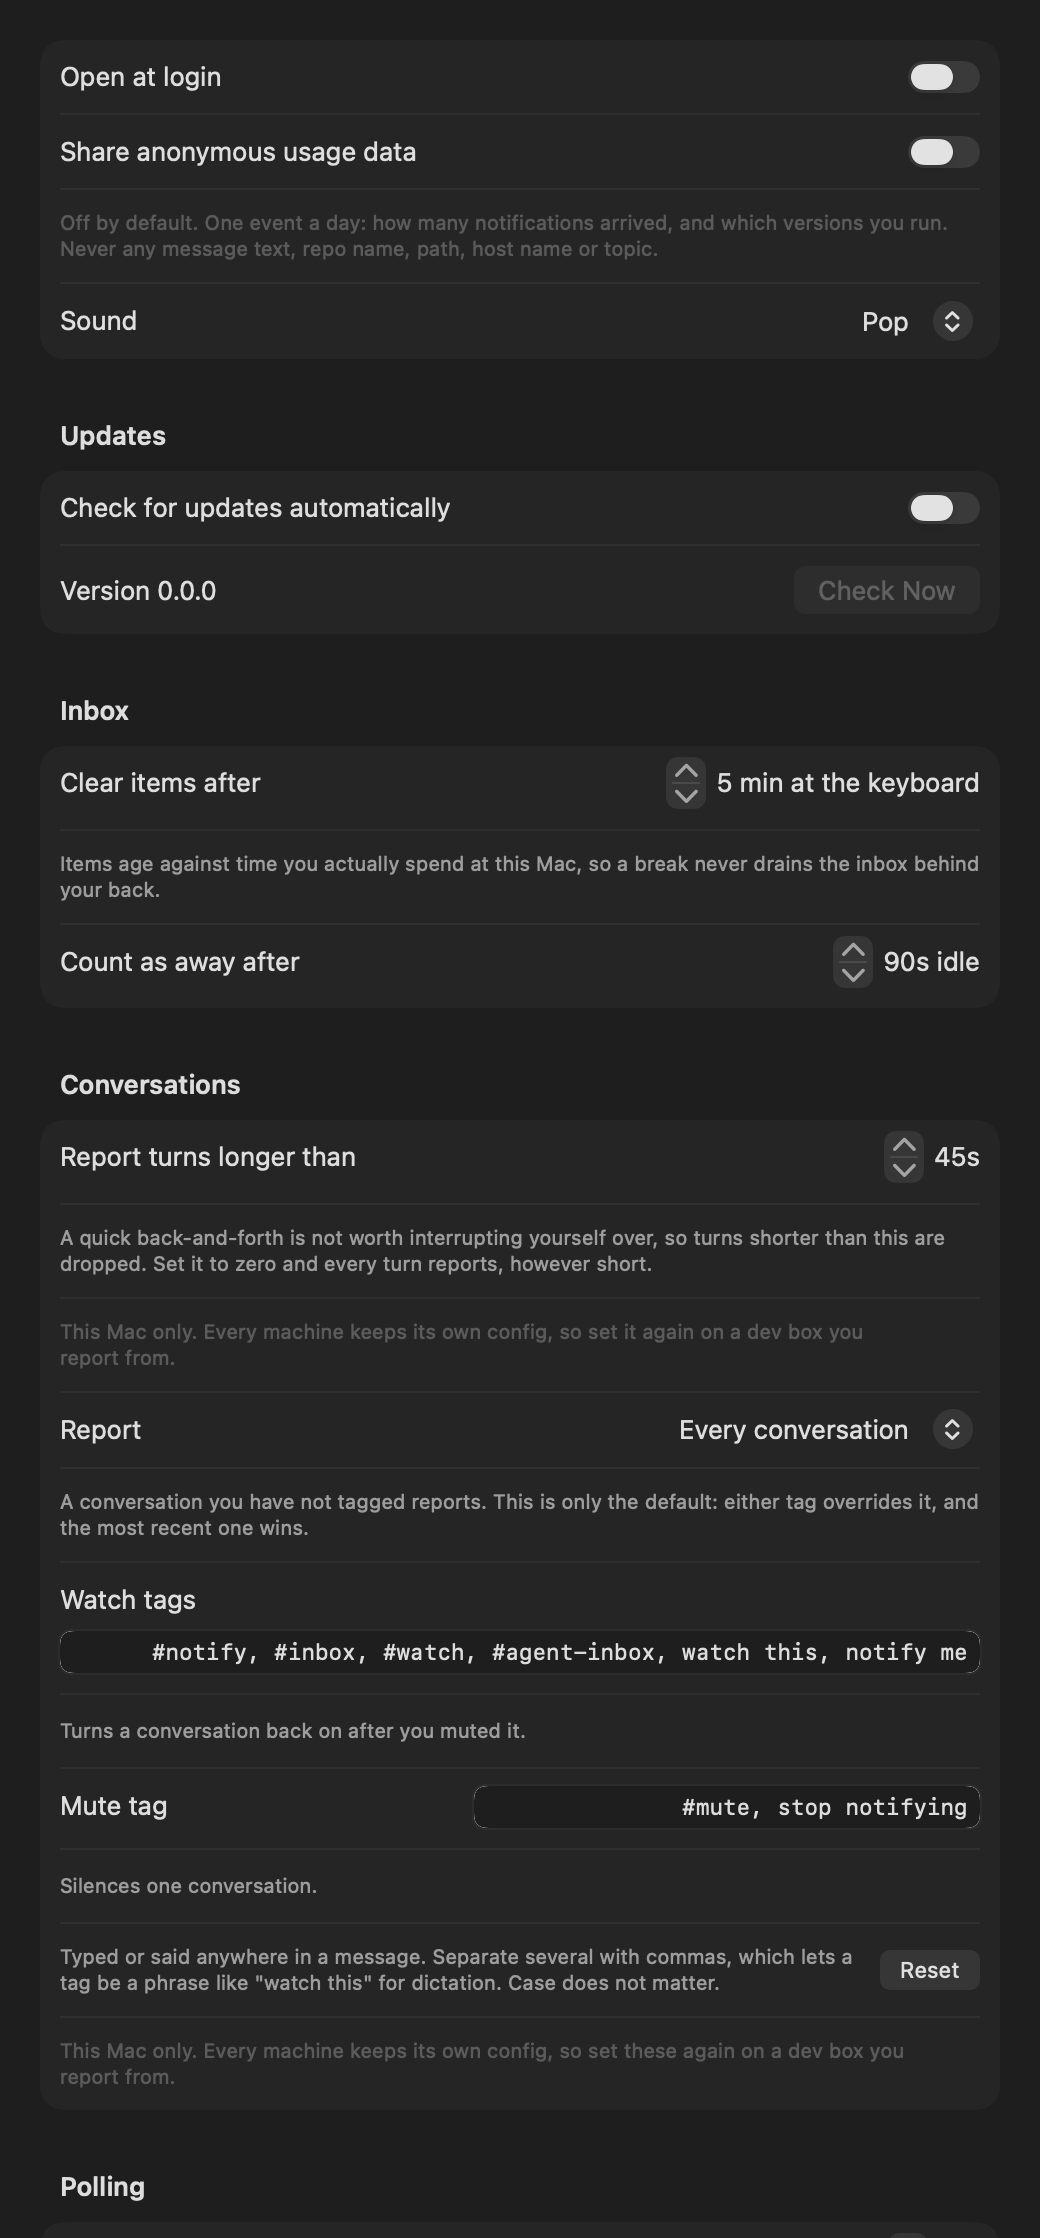
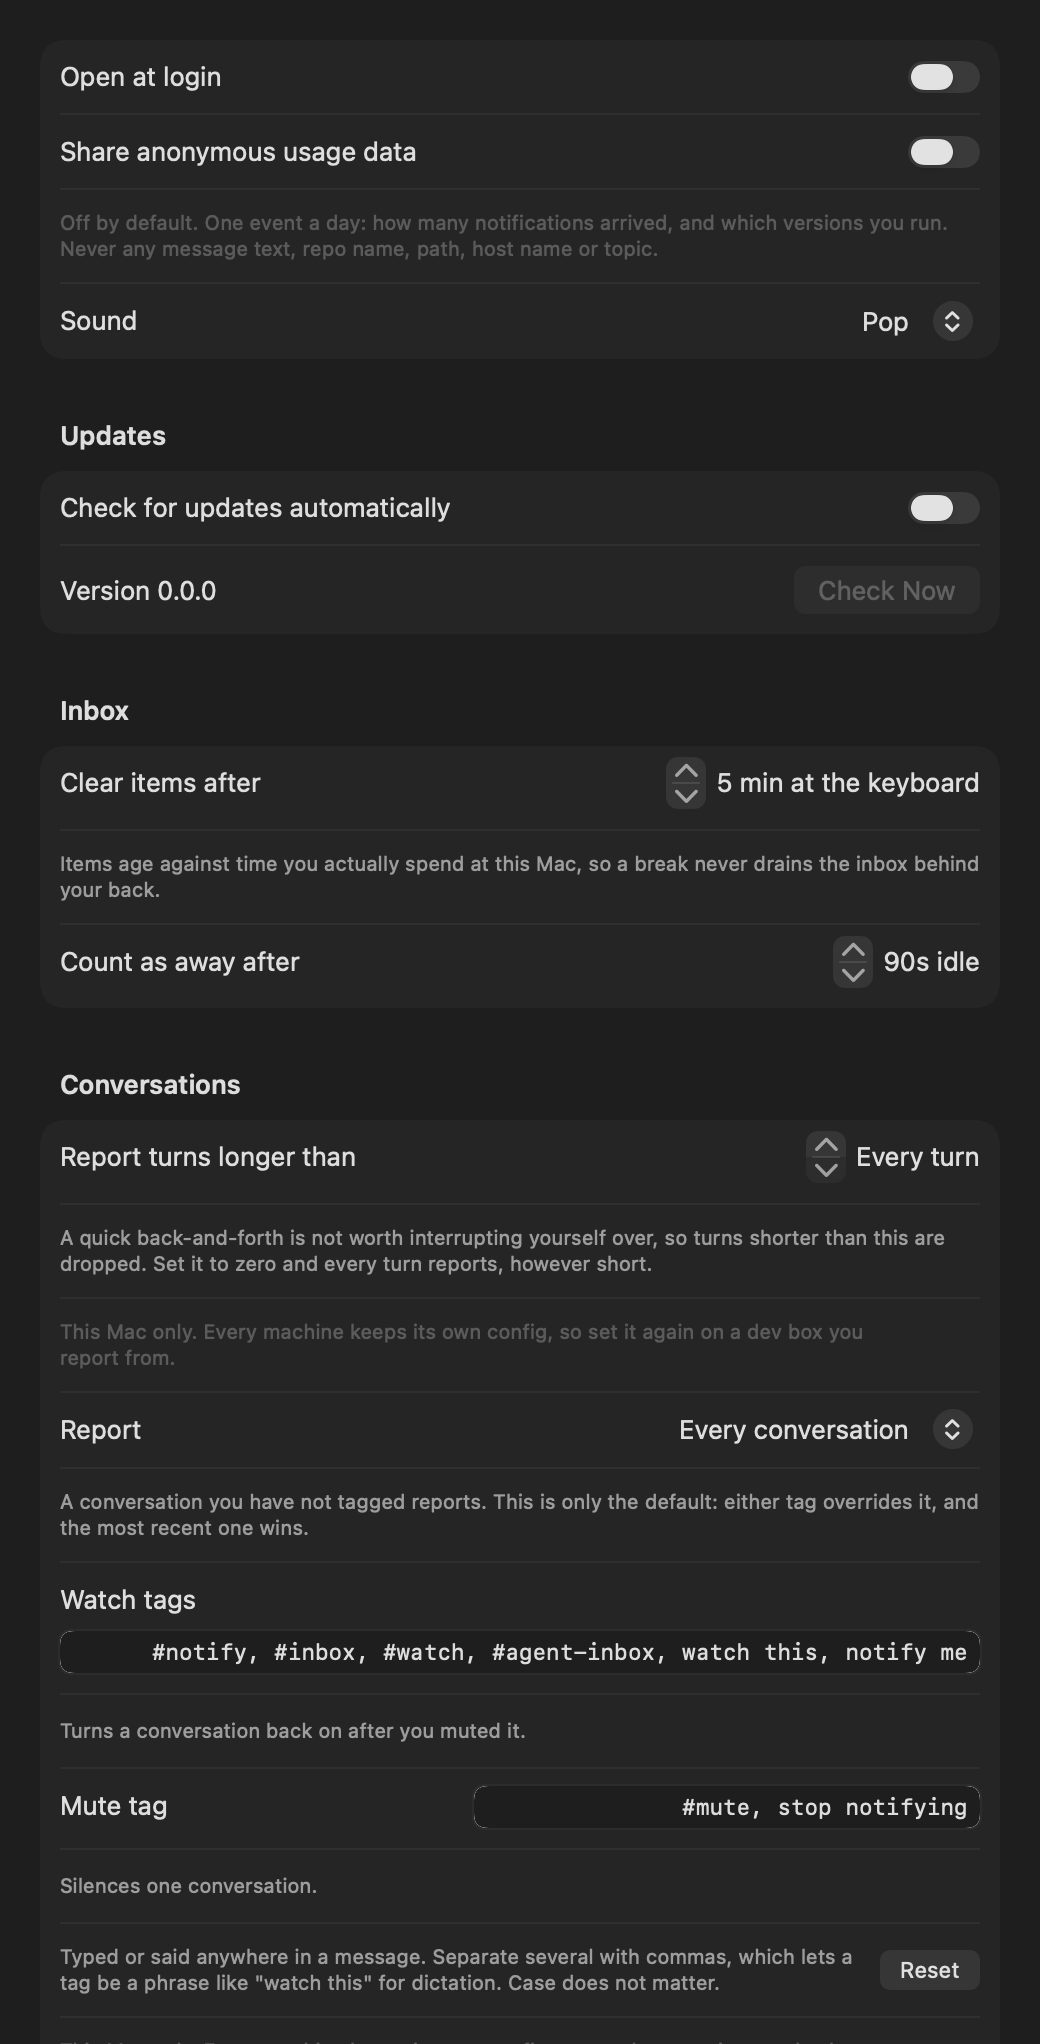
Offer to hide short turns on the row that made you wonder
Every turn reports by default so a new install can see that it works. The
cost is that a two-second reply to "hello" now produces a row, and the person
looking at it has no way to know a floor exists, let alone where.

So a finished turn under fifteen seconds says so on its own row, with a link
that flips the popover to Settings. Discovered on exactly the row that raised
the question, one click, no window to hunt for.

Unknown durations are not short. An older sender that sends no elapsed time
must not be nagged on every row, and a hand is a block, not a turn, whatever
its timing says.

diff --git a/mac/Tests/AgentInboxTests/MessageParserTests.swift b/mac/Tests/AgentInboxTests/MessageParserTests.swift
@@ -370,3 +370,35 @@ final class ItemThreadTests: XCTestCase {
         XCTAssertNil(item(summary: "s", ask: "a", closing: "").closingWords)
     }
 }
+
+/// Every turn reports by default so a new install can see that it works. The
+/// row for a very short turn is where the person then learns the floor exists,
+/// so the offer has to appear on exactly those rows and no others.
+final class ShortTurnTests: XCTestCase {
+    private func item(kind: ItemKind, elapsed: Int?) -> InboxItem {
+        InboxItem(
+            id: "1", kind: kind, repo: "r", host: "h", duration: nil, elapsed: elapsed,
+            summary: nil, ask: nil, detail: nil, closing: nil, waitingOn: nil,
+            sessionID: nil, cwd: nil, receivedAt: Date(), presenceAtArrival: 0)
+    }
+
+    func testAQuickFinishedTurnGetsTheOffer() {
+        XCTAssertTrue(item(kind: .finished, elapsed: 3).isShortTurn)
+        XCTAssertTrue(item(kind: .finished, elapsed: InboxItem.shortTurnSeconds - 1).isShortTurn)
+    }
+
+    func testATurnAtTheThresholdDoesNot() {
+        XCTAssertFalse(item(kind: .finished, elapsed: InboxItem.shortTurnSeconds).isShortTurn)
+        XCTAssertFalse(item(kind: .finished, elapsed: 999).isShortTurn)
+    }
+
+    /// An older sender sends no elapsed time. Unknown is not short.
+    func testAnUnknownDurationIsNeverCalledShort() {
+        XCTAssertFalse(item(kind: .finished, elapsed: nil).isShortTurn)
+    }
+
+    /// The hand is a block, not a turn; its duration means nothing here.
+    func testANeedsYouItemIsNeverCalledShort() {
+        XCTAssertFalse(item(kind: .needsYou, elapsed: 2).isShortTurn)
+    }
+}

diff --git a/mac/Tests/AgentInboxTests/ScreenshotTests.swift b/mac/Tests/AgentInboxTests/ScreenshotTests.swift
@@ -121,13 +121,22 @@ final class ScreenshotTests: XCTestCase {
         [
             InboxItem(
                 id: "1", kind: .finished, repo: "marketing-site", host: "laptop",
-                duration: "4m 12s",
+                duration: "4m 12s", elapsed: 252,
                 summary: "Rewrite the pricing page copy",
                 ask: "make the middle tier the obvious pick",
                 detail: nil,
                 closing: "Pricing page rewritten, and the comparison table now marks the middle tier as recommended. … Left the annual toggle alone, since you did not ask for it.",
                 waitingOn: nil, sessionID: "e5f6a7b8", cwd: "/Users/you/marketing-site",
                 receivedAt: Date(timeIntervalSince1970: 1_700_000_600), presenceAtArrival: 0),
+            // A turn short enough that the row offers to hide turns like it.
+            InboxItem(
+                id: "3", kind: .finished, repo: "docs-site", host: "laptop",
+                duration: "0m 4s", elapsed: 4,
+                summary: "Fix the broken anchor links",
+                ask: "are you still there?",
+                detail: nil, closing: "Still here. Nothing left to do on the anchors.",
+                waitingOn: nil, sessionID: "c9d0e1f2", cwd: "/Users/you/docs-site",
+                receivedAt: Date(timeIntervalSince1970: 1_700_000_300), presenceAtArrival: 0),
             InboxItem(
                 id: "2", kind: .needsYou, repo: "checkout-api", host: "devbox",
                 duration: nil,

diff --git a/mac/Sources/AgentInbox/Models/InboxItem.swift b/mac/Sources/AgentInbox/Models/InboxItem.swift
@@ -103,6 +103,19 @@ struct InboxItem: Codable, Identifiable, Equatable {
     /// answer to that, so a closing folded into it would never once be drawn.
     /// This is the line that tells two long sessions apart, which is exactly
     /// the case where the subject line has stopped being enough.
+    /// Under this many seconds, a finished turn gets a line offering to hide
+    /// turns that short. Every turn reports by default so a new install can see
+    /// that it works; this is how the person then learns the floor exists,
+    /// on the very row that made them wonder.
+    static let shortTurnSeconds = 15
+
+    /// A finished turn quick enough to offer hiding. Unknown durations are not
+    /// short: an older sender that sends no elapsed time should not be nagged.
+    var isShortTurn: Bool {
+        guard kind == .finished, let elapsed else { return false }
+        return elapsed < Self.shortTurnSeconds
+    }
+
     var closingWords: String? {
         guard let closing, !closing.isEmpty, closing != subtitle else { return nil }
         return closing

diff --git a/mac/Sources/AgentInbox/Views/MenuContentView.swift b/mac/Sources/AgentInbox/Views/MenuContentView.swift
@@ -307,6 +307,17 @@ private struct ItemRow: View {
                         .lineLimit(4)
                         .fixedSize(horizontal: false, vertical: true)
                 }
+                if item.isShortTurn {
+                    HStack(spacing: 4) {
+                        Text("A \(item.elapsed ?? 0)s turn. Turns this short can be hidden in")
+                            .note(.tertiary)
+                        // Styled on its own, or it inherits the note's grey and
+                        // stops looking like something you can click.
+                        Button("Settings") { model.menuRoute = .settings }
+                            .buttonStyle(.link)
+                            .font(.system(size: 10))
+                    }
+                }
                 if let waiting = item.waitingOn {
                     Text(MarkdownText.attributed(waiting))
                         .font(.system(size: 12))

diff --git a/README.md b/README.md
@@ -191,6 +191,9 @@ the first thing anyone does after installing. If every turn is too chatty, raise
 applies to the machine you set it on: every machine keeps its own `~/.agent-inbox/config`,
 so a dev box you report from needs its own.
 
+A turn under fifteen seconds says so on its own row, with a link into Settings, so the
+floor is discovered on exactly the row that made you wonder about it.
+
 **Settings are a page inside the menu, not a window.** Click the gear and the popover shows
 them, with a way back. This is deliberate: a separate Settings window opens wherever macOS
 decides to put it, which on a Mac driving a full-screen app is another Space, so the click
